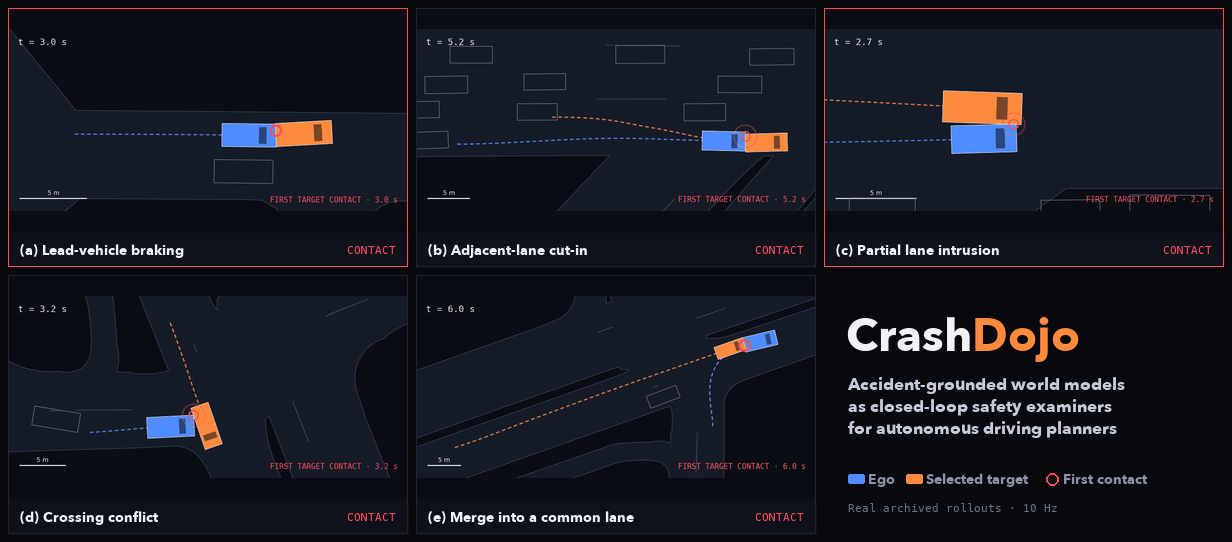
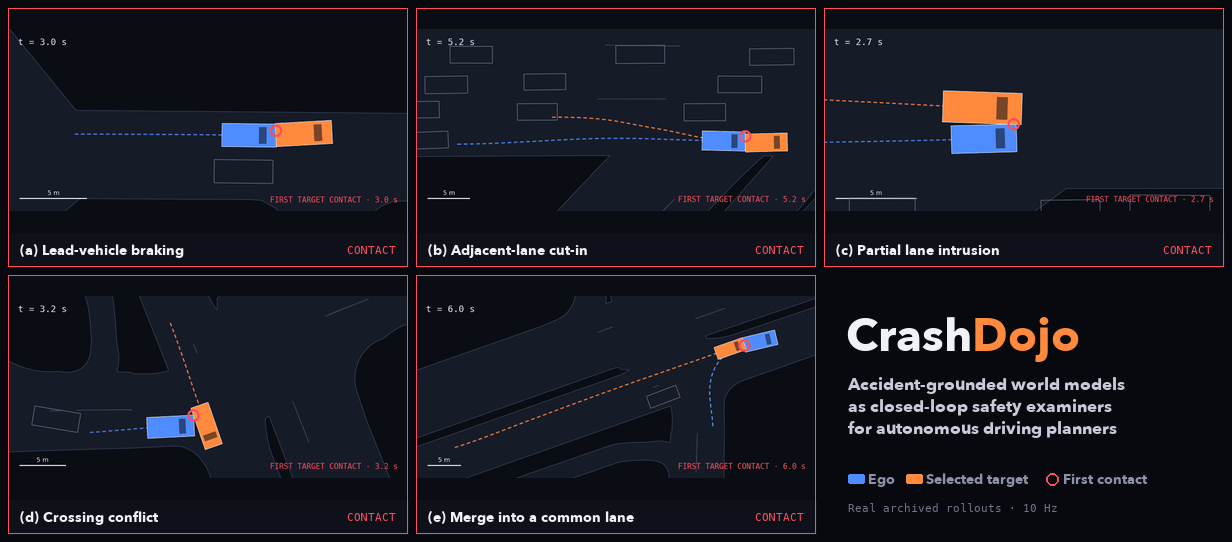
Teaser: freeze each panel at first contact; steady contact border

Changed region(s): [[0.8019, 0.2066, 0.8328, 0.2362], [0.586, 0.2362, 0.6169, 0.2657]]

diff --git a/index.html b/index.html
@@ -105,10 +105,10 @@
   <div class="wrap wrap--wide">
     <div class="teaser-head">
       <p class="teaser-cap">Recorded rollouts for the five request families, played on a shared clock (10 Hz). Each panel stops at the first ego–target contact.</p>
-      <a class="chip" href="media/teaser.gif" download="crashdojo-teaser.gif">Download GIF ↓</a>
+      <a class="chip" href="media/teaser.gif?v=2" download="crashdojo-teaser.gif">Download GIF ↓</a>
     </div>
     <figure class="teaser">
-      <img src="media/teaser.gif" alt="Five recorded CrashDojo rollouts playing in sync: lead braking, cut-in, partial intrusion, crossing and merge, each ending in first target contact" loading="lazy">
+      <img src="media/teaser.gif?v=2" alt="Five recorded CrashDojo rollouts playing in sync: lead braking, cut-in, partial intrusion, crossing and merge, each ending in first target contact" loading="lazy">
     </figure>
   </div>
 </section>
